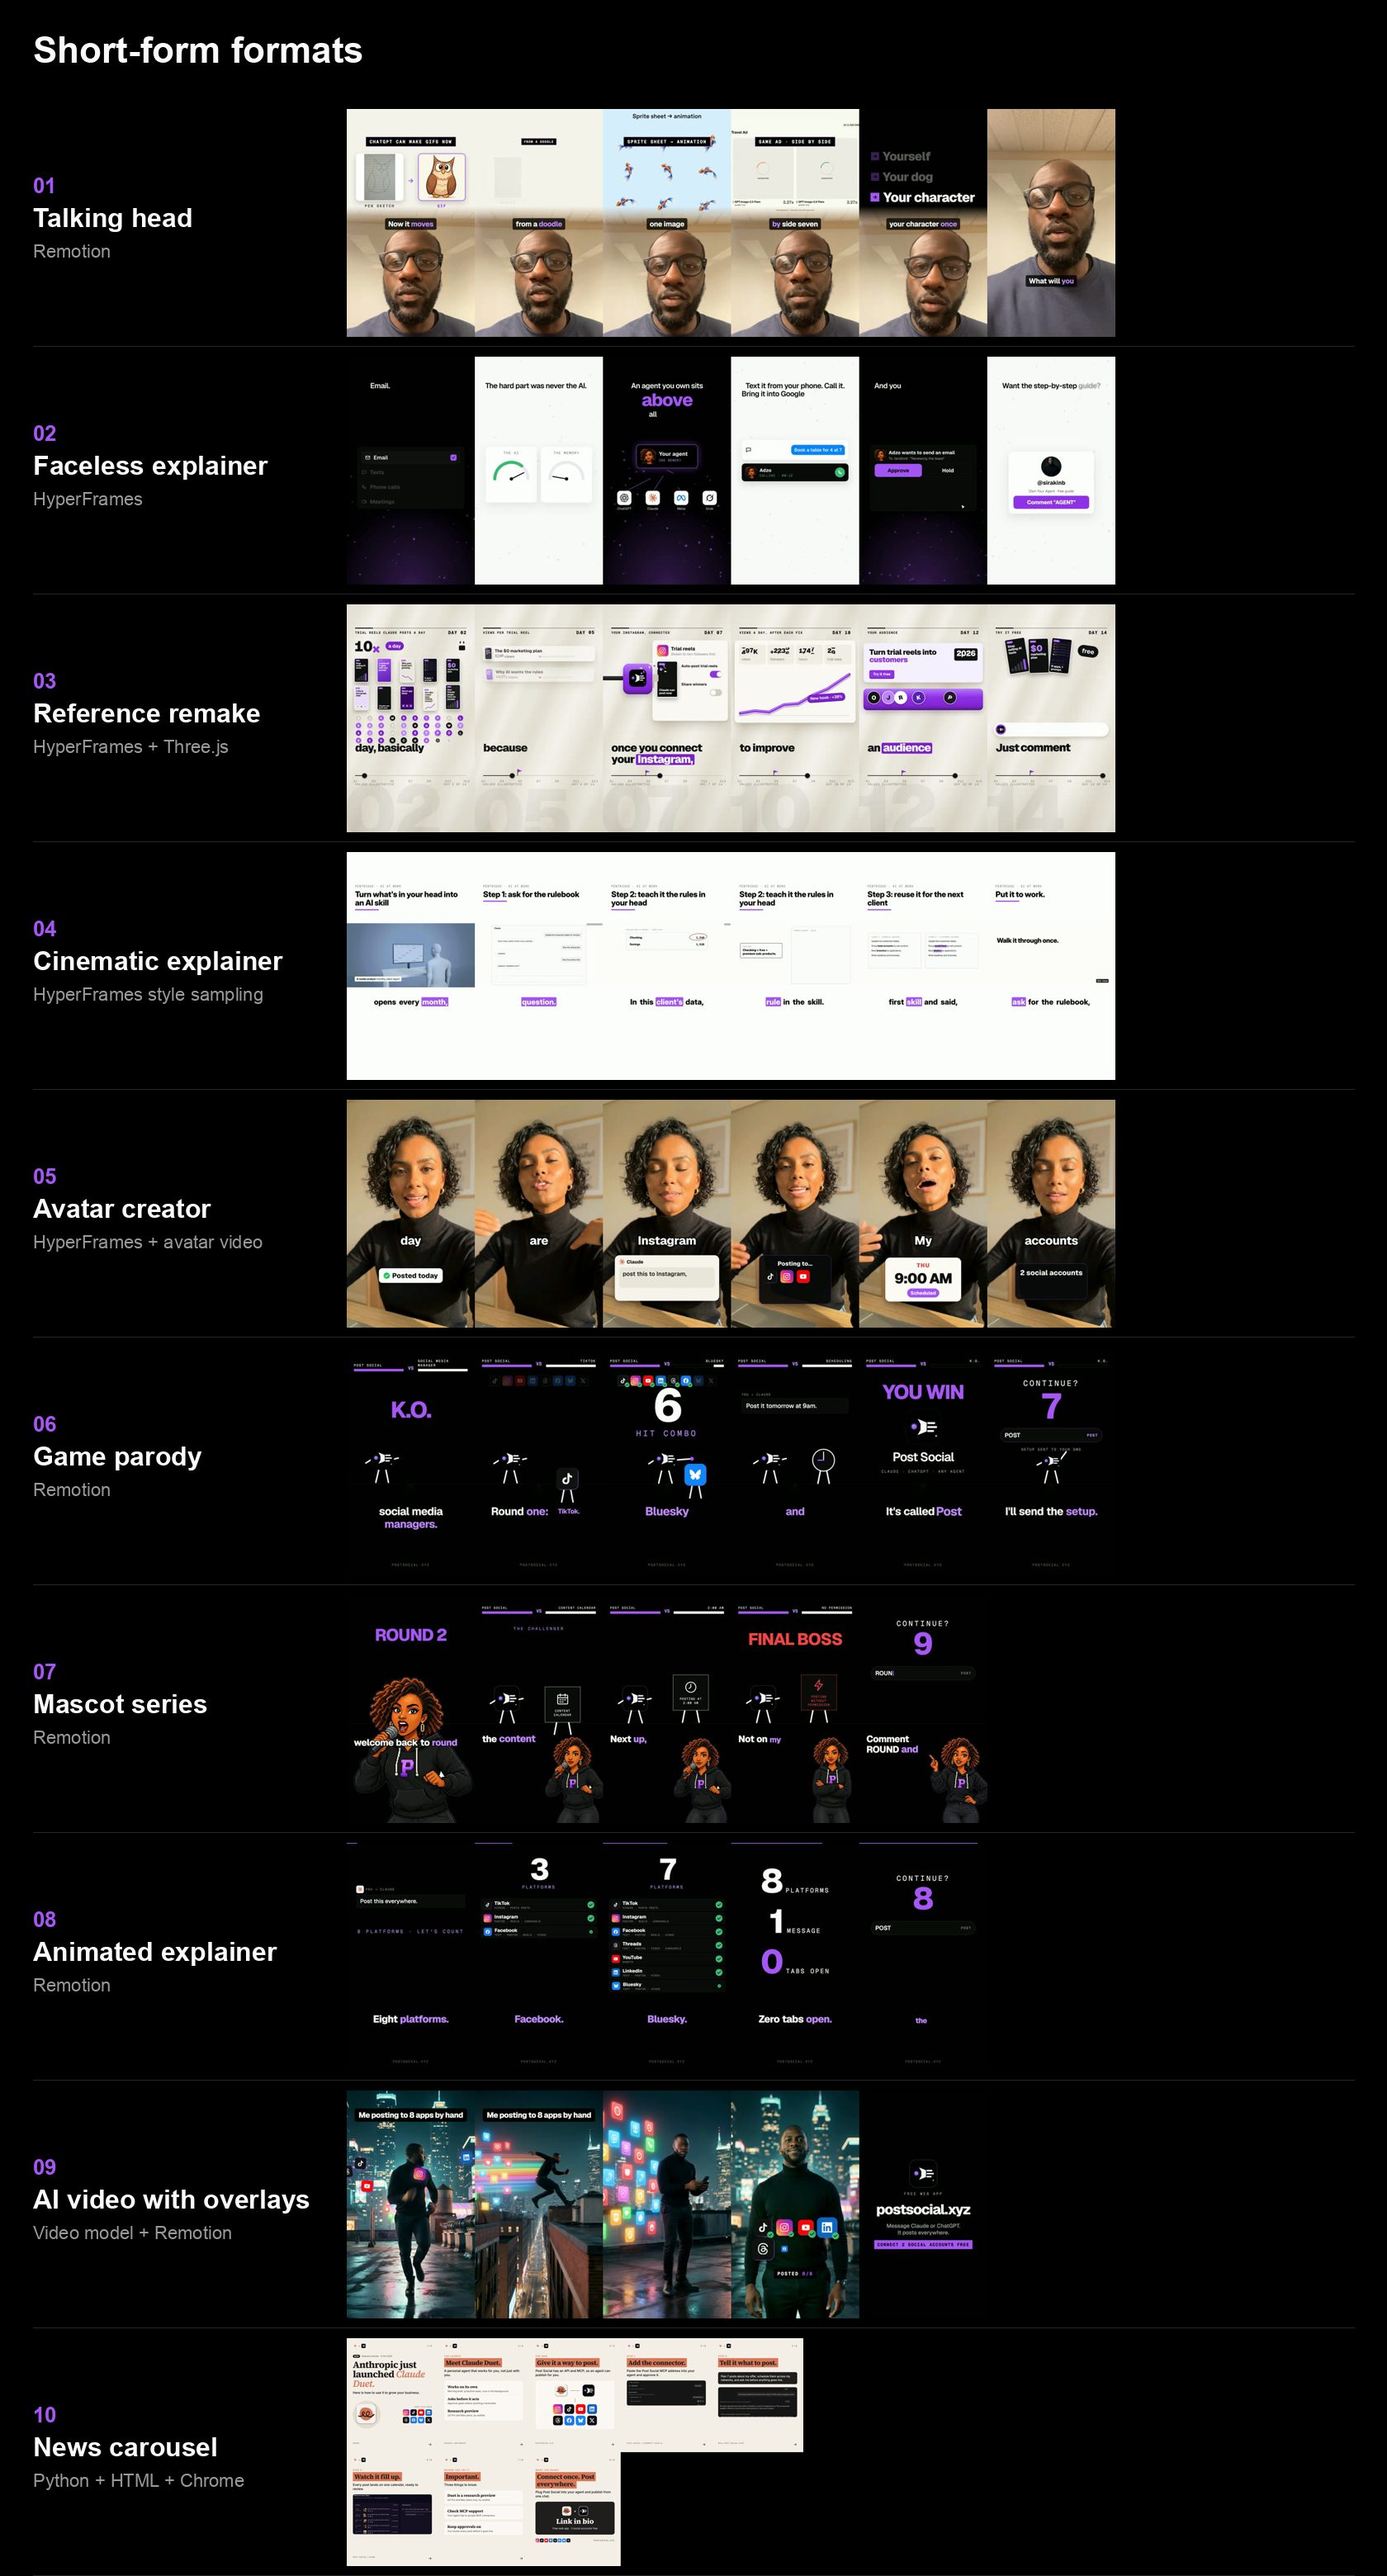
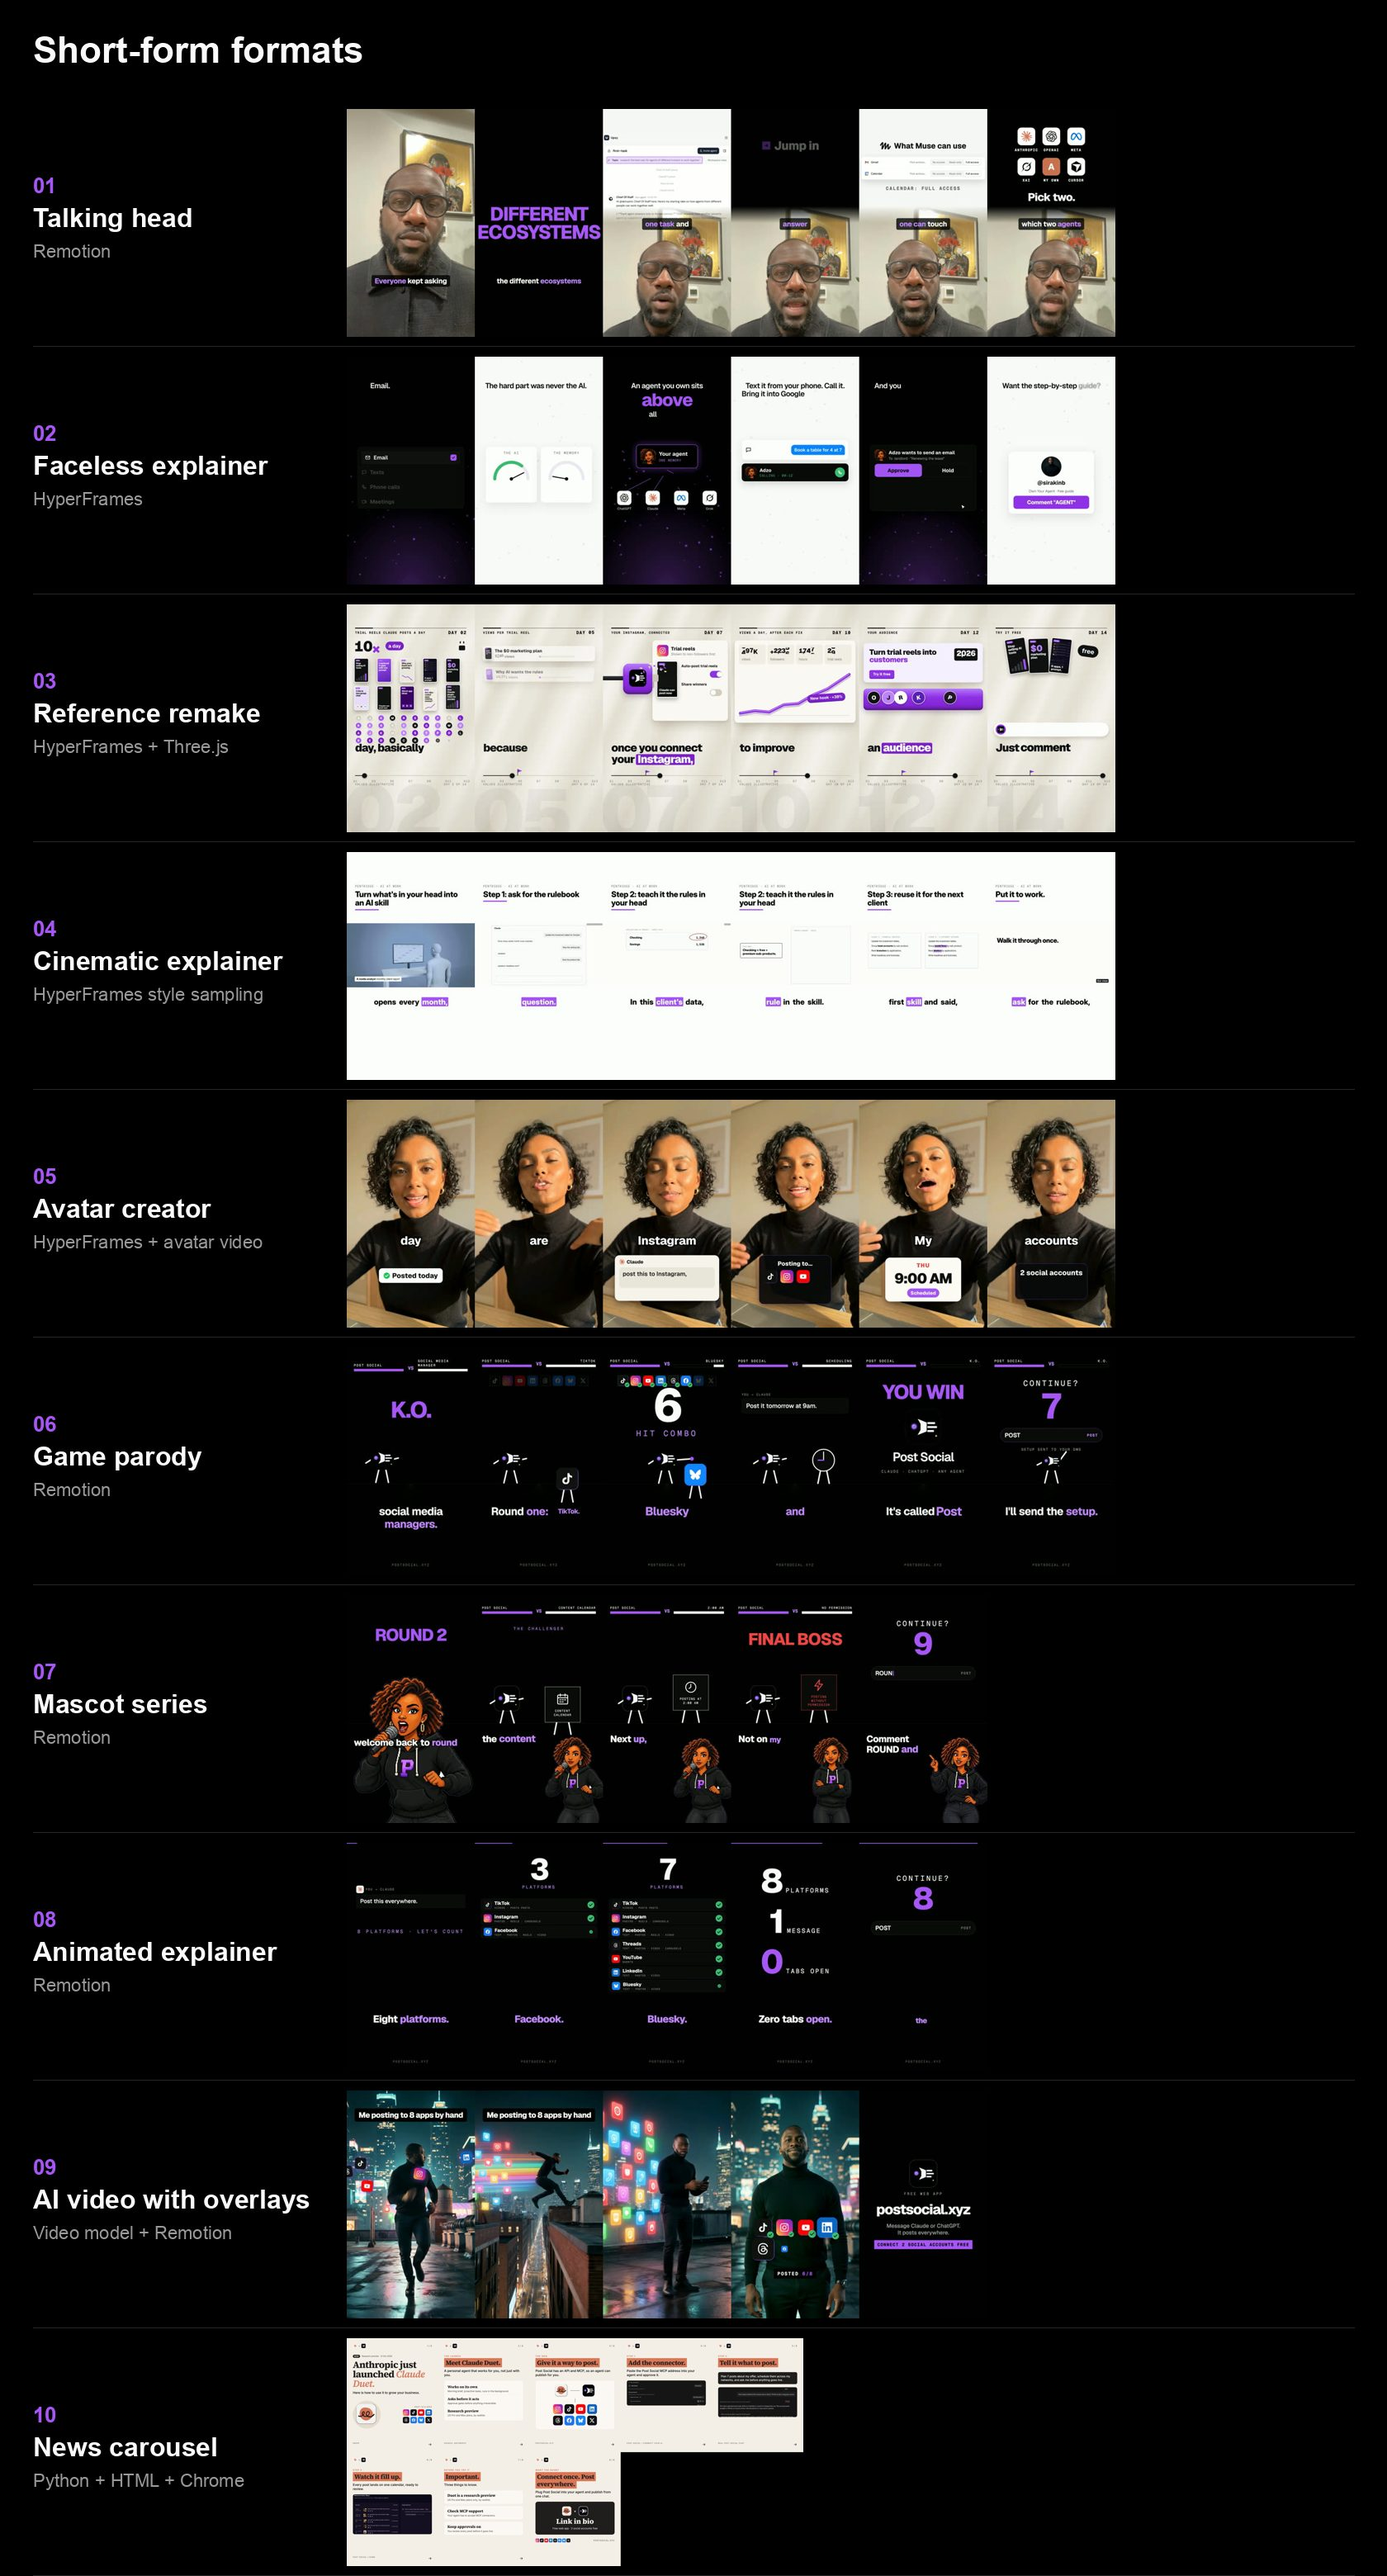
Remove example frames that showed other people's material; add the Geist font license

Changed region(s): [[0.2476, 0.0311, 0.8048, 0.1554]]

diff --git a/formats/talking-head.md b/formats/talking-head.md
@@ -1,7 +1,6 @@
 # Talking head (dense edit)
 
-![Frames](../examples/talking-head/news-1.jpg)
-![Frames](../examples/talking-head/news-2.jpg)
+![Frames](../examples/talking-head/product.jpg)
 
 **What it is:** you on camera, edited densely. The layout switches beat by beat between full face, split screen (graphic on top, face below) and a full-screen graphic. Real logos and real product UI, a new visual every 1–2 s, word captions with one accent word, and a short digital tick on every cut. 45–75 s.
 

diff --git a/formats/animated-explainer.md b/formats/animated-explainer.md
@@ -2,7 +2,6 @@
 
 ![Team](../examples/animated-explainer/team.jpg)
 ![Counter](../examples/animated-explainer/counter.jpg)
-![News](../examples/animated-explainer/news.jpg)
 ![Listicle](../examples/animated-explainer/listicle.jpg)
 
 **What it is:** four repeatable animated formats in your brand look (one accent colour, a new beat every 1–2 s), mixing real screenshots and clips with animated parts and a narrator:
